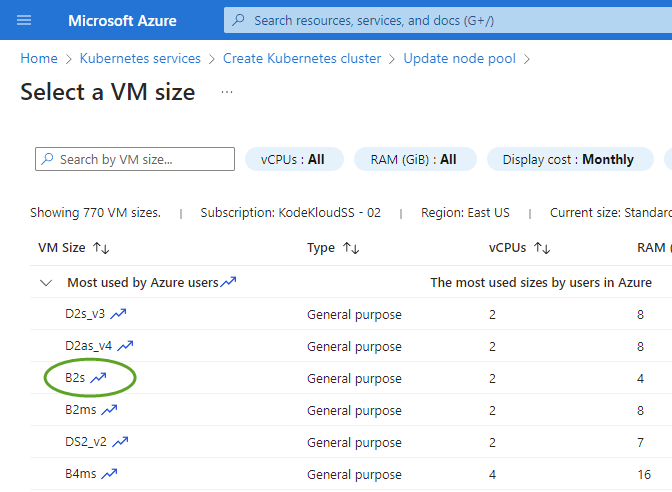
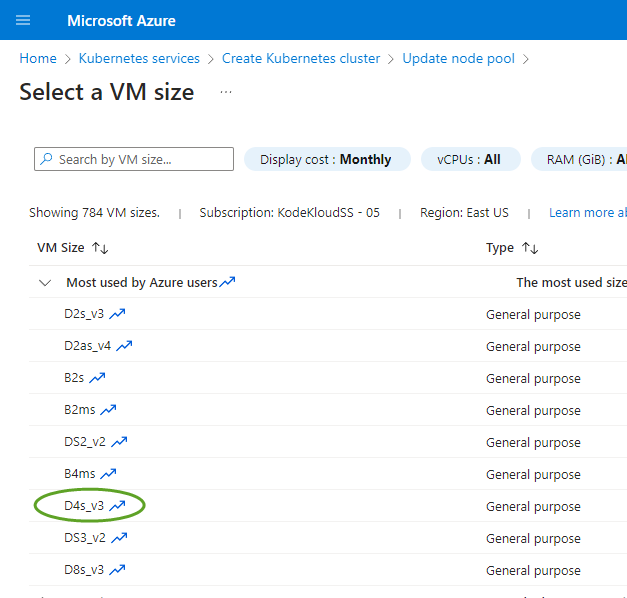
Update image type

diff --git a/managed-clusters/aks/console/docs/05-node-pools.md b/managed-clusters/aks/console/docs/05-node-pools.md
@@ -19,7 +19,7 @@
 
         ![image](../images/05b-node-pools.png)
 
-        And from the selection screen, choose `B2s`
+        And from the selection screen, choose `D4s_v3`
 
         ![image](../images/05c-node-pools.png)
 
